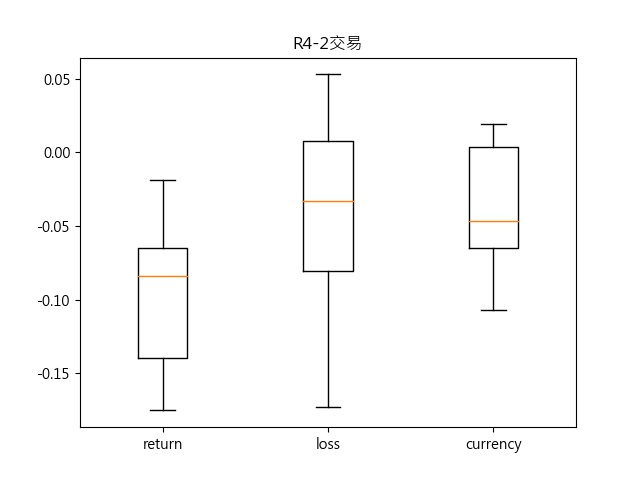
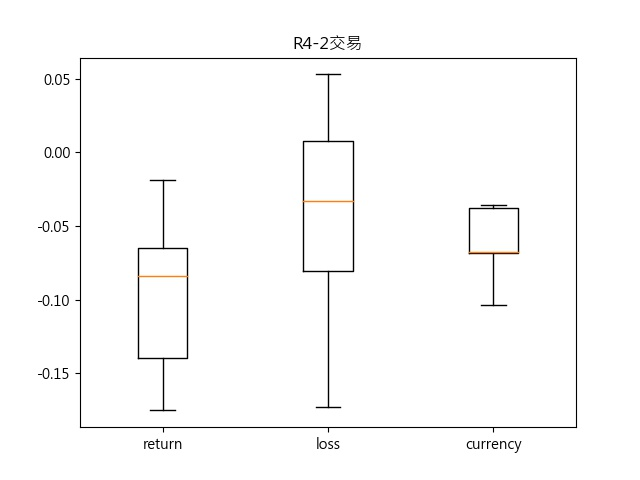
[Final] Revise currency_diff formula

Changed region(s): [[0.7188, 0.25, 0.8125, 0.4688], [0.7188, 0.5, 0.8125, 0.5312], [0.75, 0.625, 0.8125, 0.6562]]

diff --git a/Final/cal_return.py b/Final/cal_return.py
@@ -84,10 +84,10 @@ expected_loss={sheet_name: {p: [-0.015, -0.04, -0.07, -0.105, -0.12][np.argmax(c
 
 return_diff = {sheet_name: np.array([sheet[p][-1] - expected_return[sheet_name][p] for p in sheet]) for sheet_name,sheet in ave_return.items()}
 loss_diff = {sheet_name: np.array([np.min(sheet[p]) - expected_loss[sheet_name][p] for p in sheet]) for sheet_name,sheet in ave_return.items()}
-currency_diff = {sheet_name: np.array([sheet[p][-1] - currency_return[sheet_name][p][-1] for p in sheet]) for sheet_name,sheet in ave_return.items()}
+currency_diff = {sheet_name: np.array([currency_return[sheet_name][p][-1] - sheet[p] for p in sheet]) for sheet_name,sheet in expected_return.items()}
 
 matplotlib.rcParams['axes.unicode_minus'] = False
 
 for sheet_name in ave_return.keys():
-	plt.boxplot([return_diff[sheet_name],loss_diff[sheet_name],currency_diff[sheet_name]],labels=['return','loss','currency'])
-	draw(sheet_name)
+	plt.boxplot([return_diff[sheet_name],loss_diff[sheet_name],currency_diff[sheet_name]],labels=['return','loss','currency' if sheet_name[1]=='4' else 'new market'])
+	draw(sheet_name, savefig=sheet_name+'.jpg')
